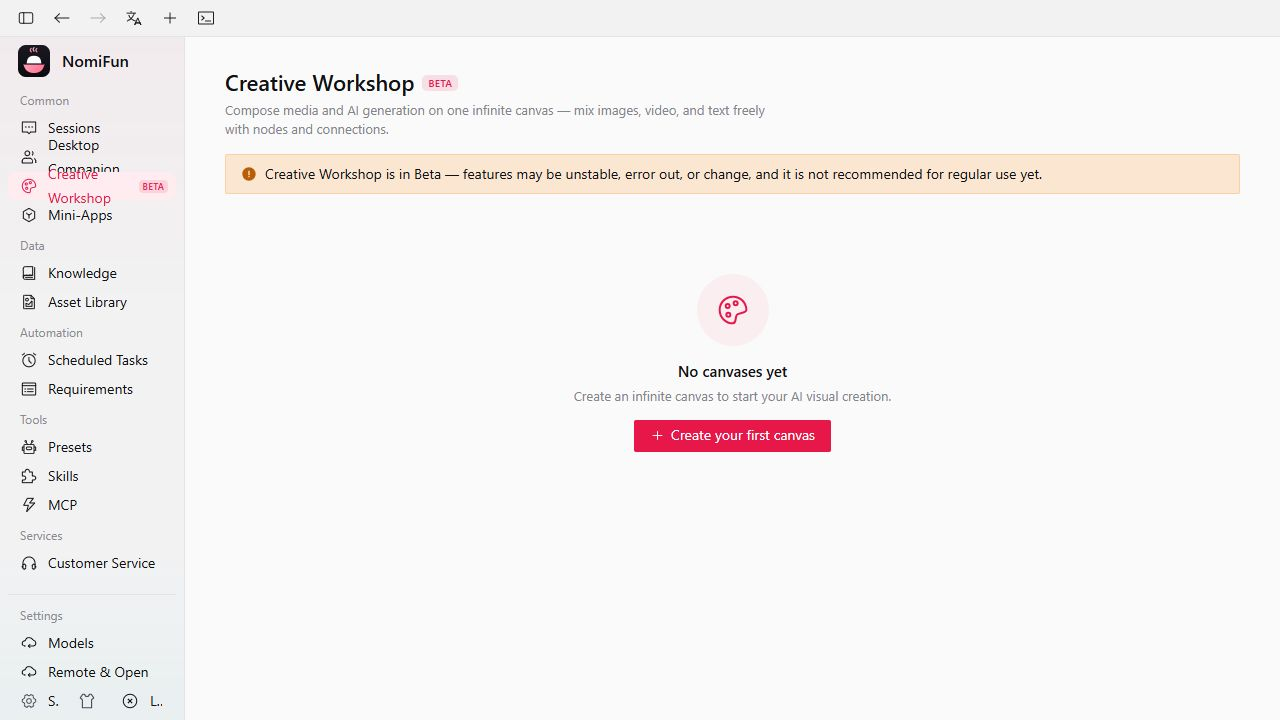
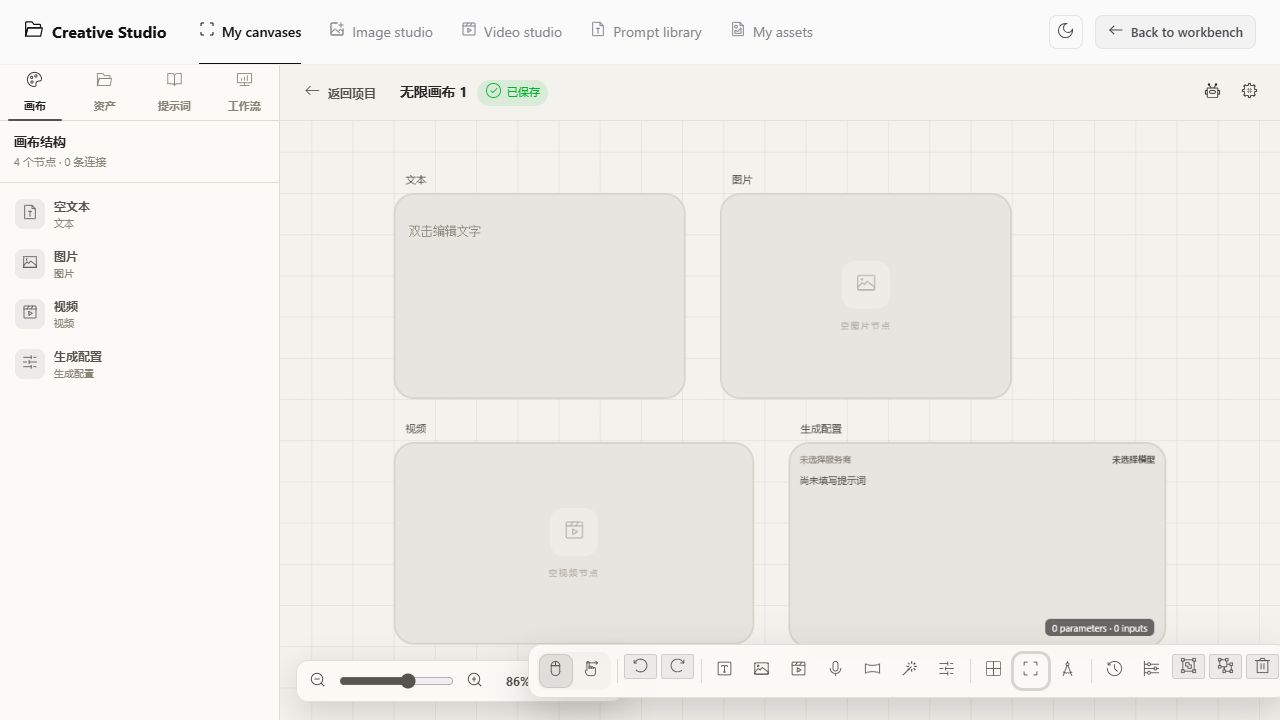
docs(creative-studio): refresh production screenshots

diff --git a/docs/images/SCREENSHOTS.md b/docs/images/SCREENSHOTS.md
@@ -2,10 +2,10 @@
 
 This file tracks the user-facing screenshots used by the Desktop documentation.
 On 2026-08-15, the complete active set was freshly captured from the current
-`nomifun-desktop` checkout and synchronized to this repository and the sibling
-NomiFun Portal. These are real running-app captures, not mockups or copies of
-the retired product UI. Do not restore the retired screenshots in either
-repository.
+`nomifun-desktop` checkout. The two Creative Studio README captures were
+replaced again on 2026-08-22 from the production SPA and an isolated data root.
+These are real running-app captures, not mockups or copies of the retired
+product UI. Do not restore retired screenshots.
 
 ## Naming scheme
 
@@ -46,7 +46,7 @@ directory, then synchronize the verified files to Desktop and Portal.
    NomiFun data directory or real credentials.
 4. Capture current routes in the Codex in-app browser at `1280x720`, including
    list, dialog, settings, model, skill, companion, terminal, Mini App and
-   Creative Workshop views.
+   Creative Studio views.
 5. For authentication screens, start a second isolated host without
    `--insecure-no-auth` and capture exactly what the current SPA renders.
 6. Before copying, verify every expected file is non-empty. Afterwards compare
@@ -86,10 +86,12 @@ the guide uses text instead of an obsolete visual.
 ## README and product gallery set
 
 - `readme/en/` and `readme/zh/` contain current workspace, models, companions,
-  skills, and Creative Workshop captures.
+  skills, and Creative Studio captures. The English Creative Studio image is
+  intentionally unedited: its focused shell follows English while the launch
+  canvas body still exposes the documented Simplified-Chinese limitation.
 - `getting-started/en/` and `getting-started/zh/` contain current home captures.
-- Portal's `public/screenshots/desktop/` contains the same localized current
-  product views, including both English and Chinese Creative Workshop screens.
+- Portal copies must be synchronized and hash-checked separately before a
+  Portal publication; this manifest does not claim that synchronization.
 - `desktop-01-main-window.png` shows the current application content. It does
   not claim to document platform-specific native titlebar chrome.
 

diff --git a/docs/guides/creative-studio.md b/docs/guides/creative-studio.md
@@ -191,6 +191,8 @@ unavailable.
 - Provider protocols differ. Controls appear only when their exact typed
   protocol profile supports them; unknown protocols use the smaller safe
   subset.
+- The focused-shell navigation follows the application locale, but much of the
+  launch canvas and editor body copy remains Simplified Chinese.
 - A configured model is not evidence that its remote provider is reachable or
   that a paid request was executed. Keep provider billing and data policies in
   mind before generating.
